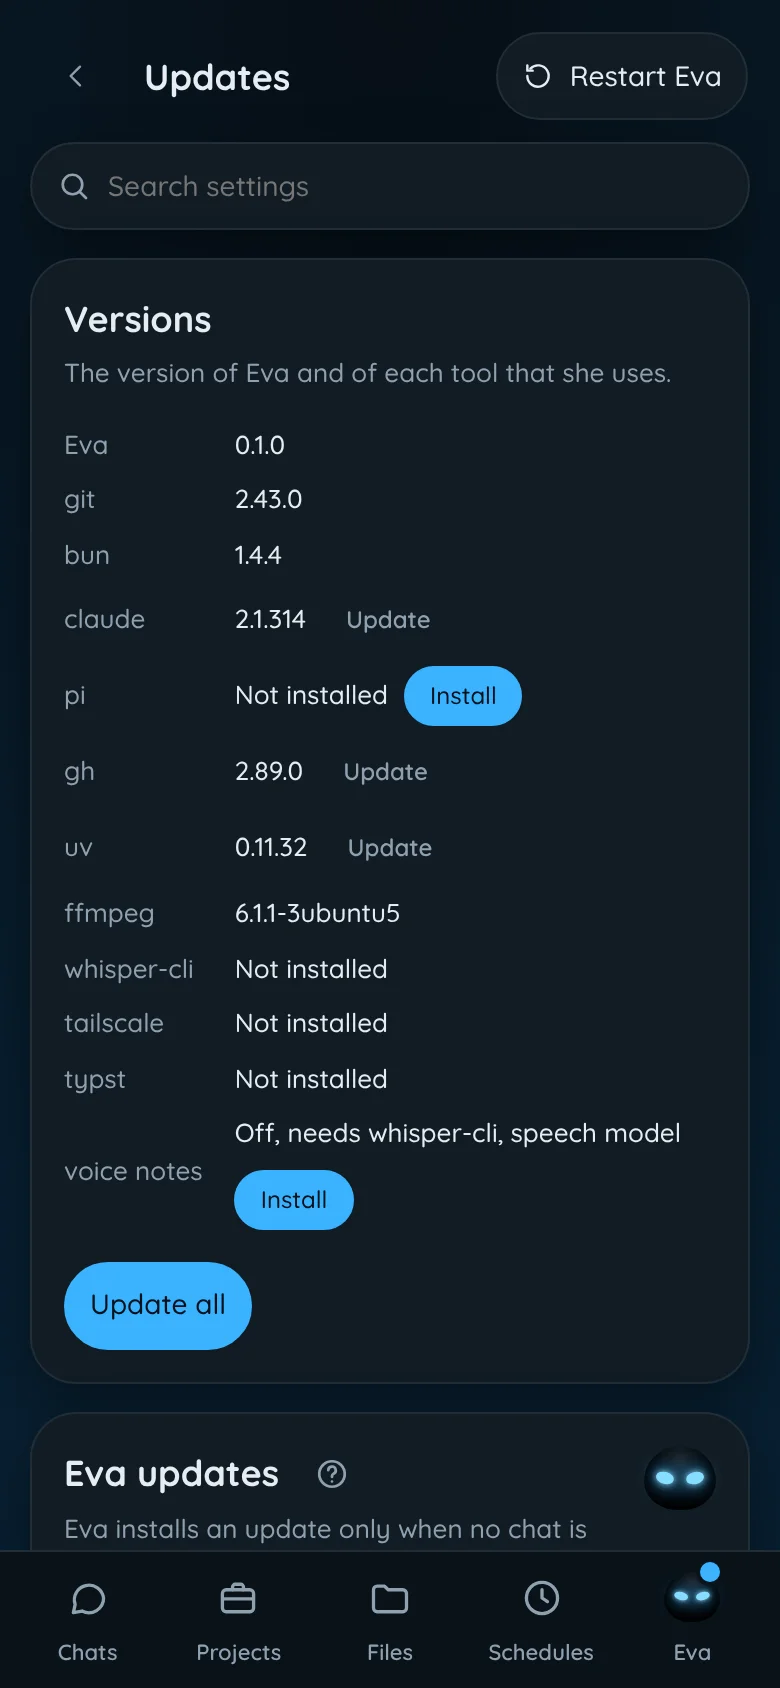
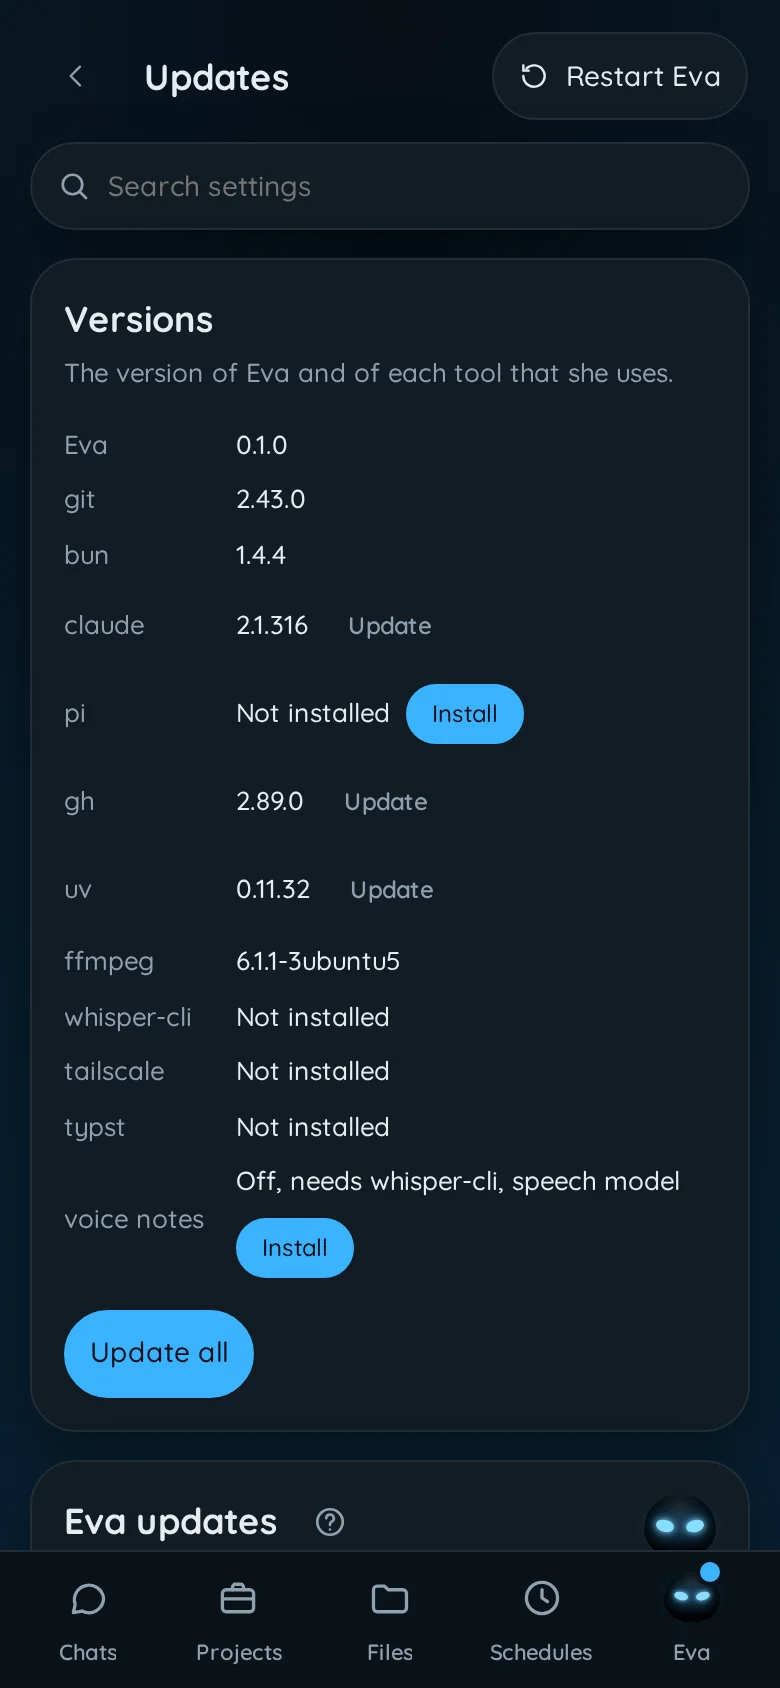
fix(web): keep the tap margins of two Versions pills apart on a phone
Two Versions rows with a pill were 38 px apart: a 30 px row and the 8 px
gap of the facts list. Each pill's tap margin is 44 px tall, so the
margins of two such rows overlapped by 6 px. The later pill took that
part, so the Update pill above it had only 38 px of tap height. The
review of #786 found it with a probe of the real targets.

On a phone, a fact row with a pill is now as tall as the tap target
less the row gap. So the margins of two such rows meet, as the filters
do, and do not overlap. The pill keeps its 30 px look.

The Settings test now also taps 1 px inside the top and the bottom edge
of each Versions pill's 44 px target, as the filter check of the
project list does. Both share one helper. It failed on the old rows.
The phone captures of Updates in the EVE guide show the taller rows.

Claude-Session: https://claude.ai/code/session_011YsmyfS8LAYALfwL5oeSDx

diff --git a/test/e2e/web-ui.spec.ts b/test/e2e/web-ui.spec.ts
@@ -151,6 +151,26 @@ async function tapHeights(locator: Locator): Promise<number[]> {
   );
 }
 
+/**
+ * Checks that each pill is smaller than 44 px, and that a tap 1 px inside the top or the bottom
+ * edge of its 44 px target reaches it. So no other pill's margin covers a part of it.
+ */
+async function expectSmallPills(pills: Locator): Promise<void> {
+  const found = await pills.evaluateAll((elements) =>
+    elements.map((element) => {
+      element.scrollIntoView({ block: "center" });
+      const box = element.getBoundingClientRect();
+      const x = box.left + box.width / 2;
+      const middle = box.top + box.height / 2;
+      const hits = [middle - 21, middle + 21].map((y) => document.elementFromPoint(x, y)?.closest("button"));
+      return { name: element.textContent, height: box.height, hit: hits.every((hit) => hit === element) };
+    }),
+  );
+  expect(found.length).toBeGreaterThan(0);
+  for (const pill of found) expect(pill.hit, pill.name).toBe(true);
+  expect(Math.max(...found.map((pill) => pill.height))).toBeLessThan(44);
+}
+
 /** Opens Settings, then a section by its card on the home page, which a phone shows too. */
 async function openSettings(page: Page, section?: string): Promise<void> {
   // Only the main navigation: a chat or a project in the list may also have "Settings" in its name.
@@ -2017,19 +2037,7 @@ test("on a phone, the project list is the page, and Back to the list returns to 
   await expect(page.getByRole("heading", { name: "Projects" })).toBeVisible();
   await expect(page.getByRole("button", { name: /Example app/ })).toBeVisible();
   expect(Math.min(...(await tapHeights(page.locator("button:visible"))))).toBeGreaterThanOrEqual(44);
-  // A filter is a small pill, but an invisible margin keeps its tap target at 44 px. No other filter covers it.
-  const filters = await page.locator(".filter-chip:visible").evaluateAll((chips) =>
-    chips.map((chip) => {
-      const box = chip.getBoundingClientRect();
-      const x = box.left + box.width / 2;
-      const middle = box.top + box.height / 2;
-      const hits = [middle - 20, middle + 20].map((y) => document.elementFromPoint(x, y)?.closest(".filter-chip"));
-      return { height: box.height, hit: hits.every((hit) => hit === chip) };
-    }),
-  );
-  expect(filters.length).toBeGreaterThan(0);
-  for (const filter of filters) expect(filter.hit).toBe(true);
-  expect(Math.max(...filters.map((filter) => filter.height))).toBeLessThan(44);
+  await expectSmallPills(page.locator(".filter-chip:visible"));
   await page.getByRole("button", { name: /Example app/ }).click();
   await expect(page.getByRole("heading", { level: 1, name: "Example app" })).toBeVisible();
   expect(await page.evaluate(() => document.documentElement.scrollWidth)).toBeLessThanOrEqual(375);
@@ -5457,10 +5465,7 @@ test.describe("on a phone", () => {
         // The versions load after the page. Each tool that Eva can install then gets a small pill with a tap margin.
         const pills = page.getByRole("region", { name: "Versions" }).locator(".fact-with-action button.small");
         await expect(pills.first()).toBeVisible();
-        const boxes = await pills.evaluateAll((elements) =>
-          elements.map((element) => element.getBoundingClientRect().height),
-        );
-        expect(Math.max(...boxes)).toBeLessThan(44);
+        await expectSmallPills(pills);
       }
       const heights = await tapHeights(
         page.locator("button:visible, select:visible, .link-list a:visible, a.button-link:visible"),

diff --git a/src/frontends/web/styles.css b/src/frontends/web/styles.css
@@ -2646,6 +2646,12 @@ button.link-button {
        change the tap target (#777). */
     inset: calc(50% - var(--touch-target) / 2) 0;
   }
+
+  /* A row of a fact with a pill and the gap below it are as tall as the tap target. So the margins of two
+     such rows meet, but do not overlap, as the filters do. */
+  .facts dd.fact-with-action {
+    min-height: calc(var(--touch-target) - var(--space-2));
+  }
 }
 
 .save-bar {
